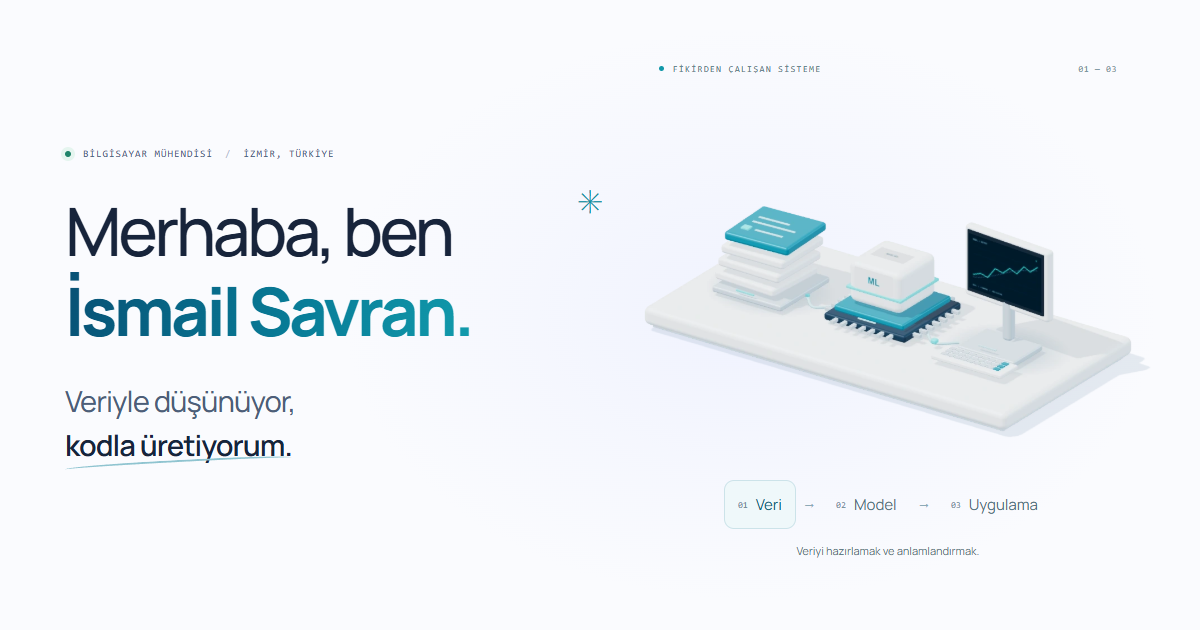
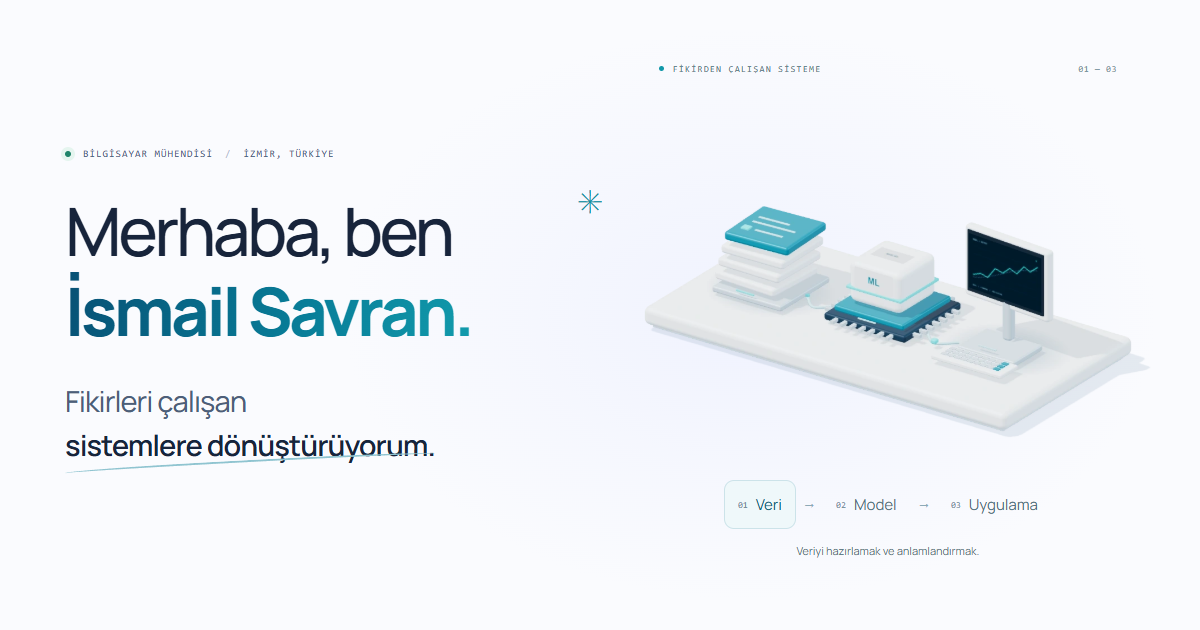
Refresh introduction copy and link directly to the verified publication

Changed region(s): [[0.0308, 0.6937, 0.37, 0.754], [0.0308, 0.6032, 0.2467, 0.6635]]

diff --git a/index.html b/index.html
@@ -8,7 +8,7 @@
 <meta name="description" content="İsmail Savran’ın kişisel portföyü. Makine öğrenmesi, doğal dil işleme, zaman serisi tahmini ve kurumsal web uygulamaları üzerine projeler.">
 <link rel="canonical" href="https://ismailsavran10.github.io/">
 <meta property="og:title" content="İsmail Savran — Bilgisayar Mühendisi">
-<meta property="og:description" content="Veriyle düşünüyor, kodla üretiyorum. İsmail Savran’ın makine öğrenmesi, yazılım geliştirme ve araştırma çalışmaları.">
+<meta property="og:description" content="Fikirleri çalışan sistemlere dönüştürüyorum. İsmail Savran’ın makine öğrenmesi, yazılım geliştirme ve araştırma çalışmaları.">
 <meta property="og:type" content="website">
 <meta property="og:locale" content="tr_TR">
 <meta property="og:url" content="https://ismailsavran10.github.io/">
@@ -17,12 +17,12 @@
 <link rel="icon" type="image/svg+xml" href="favicon.svg">
 <link rel="preload" href="fonts/manrope-latin-variable.woff2" as="font" type="font/woff2" crossorigin>
 <link rel="preload" href="fonts/manrope-latin-ext-variable.woff2" as="font" type="font/woff2" crossorigin>
-<link rel="stylesheet" href="styles.css?v=20260908-2">
-<link rel="stylesheet" href="refinements.css?v=20260908-2">
+<link rel="stylesheet" href="styles.css?v=20260908-3">
+<link rel="stylesheet" href="refinements.css?v=20260908-3">
 <script type="application/ld+json">{"@context":"https://schema.org","@type":"Person","name":"İsmail Savran","jobTitle":"Bilgisayar Mühendisi","url":"https://ismailsavran10.github.io/","sameAs":["https://github.com/ismailsavran10","https://www.linkedin.com/in/ismail-savran-00ba0a326"],"alumniOf":{"@type":"CollegeOrUniversity","name":"Afyon Kocatepe Üniversitesi"},"knowsAbout":["Machine Learning","Natural Language Processing","Time Series Forecasting","Software Development"]}</script>
-<script src="app.js?v=20260908-2" defer></script>
-<script src="motion.js?v=20260908-2" defer></script>
-<script src="workbench-loader.js?v=20260908-2" defer></script>
+<script src="app.js?v=20260908-3" defer></script>
+<script src="motion.js?v=20260908-3" defer></script>
+<script src="workbench-loader.js?v=20260908-3" defer></script>
 </head>
 <body>
 <div class="reading-progress" aria-hidden="true"></div>
@@ -43,10 +43,10 @@
   <div class="hero-copy">
     <div class="eyebrow" data-reveal><span class="status-dot"></span> BİLGİSAYAR MÜHENDİSİ <span class="eyebrow-divider">/</span> İZMİR, TÜRKİYE</div>
     <h1 id="hero-title" data-reveal>Merhaba, ben<br><span class="name-gradient">İsmail Savran.</span><span class="hero-spark" aria-hidden="true">✳</span></h1>
-    <h2 data-reveal>Veriyle düşünüyor,<br><em>kodla üretiyorum.</em></h2>
+    <h2 data-reveal>Fikirleri çalışan<br><em>sistemlere dönüştürüyorum.</em></h2>
     <p data-reveal>Tahmin modelleri, dil işleme ve web uygulamaları geliştiriyorum. Veriyi hazırlamaktan modeli bir arayüzle buluşturmaya kadar, çözümün her adımıyla ilgileniyorum.</p>
     <div class="hero-actions" data-reveal><a class="button primary" href="#projeler">Projelerimi incele <span aria-hidden="true">↗</span></a><a class="button secondary" href="ismail-savran-cv.pdf" download>CV’mi indir <span aria-hidden="true">↓</span></a></div>
-    <div class="social-links"><a href="https://github.com/ismailsavran10" target="_blank" rel="noopener noreferrer"><svg viewBox="0 0 24 24" aria-hidden="true"><path fill="currentColor" d="M12 2a10 10 0 0 0-3.16 19.49c.5.09.68-.22.68-.48v-1.86c-2.78.61-3.37-1.18-3.37-1.18-.45-1.16-1.11-1.47-1.11-1.47-.91-.62.07-.61.07-.61 1 .07 1.53 1.03 1.53 1.03.89 1.53 2.34 1.09 2.91.83.09-.65.35-1.09.63-1.34-2.22-.25-4.56-1.11-4.56-4.94 0-1.09.39-1.99 1.03-2.69-.1-.25-.45-1.27.1-2.65 0 0 .84-.27 2.75 1.03A9.57 9.57 0 0 1 12 6.82c.85 0 1.71.11 2.51.34 1.91-1.3 2.75-1.03 2.75-1.03.55 1.38.2 2.4.1 2.65.64.7 1.03 1.6 1.03 2.69 0 3.84-2.34 4.68-4.57 4.93.36.31.68.92.68 1.85v2.76c0 .26.18.58.69.48A10 10 0 0 0 12 2Z"/></svg>GitHub <span aria-hidden="true">↗</span></a><a href="https://www.linkedin.com/in/ismail-savran-00ba0a326" target="_blank" rel="noopener noreferrer"><svg viewBox="0 0 24 24" aria-hidden="true"><path fill="currentColor" d="M5.4 7.6H2V22h3.4V7.6ZM3.7 2a2 2 0 1 0 0 4 2 2 0 0 0 0-4ZM22 13.8c0-4.3-2.3-6.3-5.3-6.3a4.5 4.5 0 0 0-4 2.2V7.6H9.3V22h3.4v-8c0-2.1.4-4.1 3-4.1 2.6 0 2.6 2.4 2.6 4.2V22H22v-8.2Z"/></svg>LinkedIn <span aria-hidden="true">↗</span></a></div>
+    <div class="social-links"><a href="https://github.com/ismailsavran10" target="_blank" rel="noopener noreferrer"><svg viewBox="0 0 24 24" aria-hidden="true"><path fill="currentColor" d="M12 2a10 10 0 0 0-3.16 19.49c.5.09.68-.22.68-.48v-1.86c-2.78.61-3.37-1.18-3.37-1.18-.45-1.16-1.11-1.47-1.11-1.47-.91-.62.07-.61.07-.61 1 .07 1.53 1.03 1.53 1.03.89 1.53 2.34 1.09 2.91.83.09-.65.35-1.09.63-1.34-2.22-.25-4.56-1.11-4.56-4.94 0-1.09.39-1.99 1.03-2.69-.1-.25-.45-1.27.1-2.65 0 0 .84-.27 2.75 1.03A9.57 9.57 0 0 1 12 6.82c.85 0 1.71.11 2.51.34 1.91-1.3 2.75-1.03 2.75-1.03.55 1.38.2 2.4.1 2.65.64.7 1.03 1.6 1.03 2.69 0 3.84-2.34 4.68-4.57 4.93.36.31.68.92.68 1.85v2.76c0 .26.18.58.69.48A10 10 0 0 0 12 2Z"/></svg>GitHub profilim <span aria-hidden="true">↗</span></a><a href="https://www.linkedin.com/in/ismail-savran-00ba0a326" target="_blank" rel="noopener noreferrer"><svg viewBox="0 0 24 24" aria-hidden="true"><path fill="currentColor" d="M5.4 7.6H2V22h3.4V7.6ZM3.7 2a2 2 0 1 0 0 4 2 2 0 0 0 0-4ZM22 13.8c0-4.3-2.3-6.3-5.3-6.3a4.5 4.5 0 0 0-4 2.2V7.6H9.3V22h3.4v-8c0-2.1.4-4.1 3-4.1 2.6 0 2.6 2.4 2.6 4.2V22H22v-8.2Z"/></svg>LinkedIn <span aria-hidden="true">↗</span></a></div>
   </div>
   <div class="hero-visual workbench" aria-label="Veriden uygulamaya çalışma sürecim">
     <div class="workbench-heading"><span class="workbench-dot" aria-hidden="true"></span> FİKİRDEN ÇALIŞAN SİSTEME <span class="workbench-edition" aria-hidden="true">01 — 03</span></div>
@@ -70,11 +70,11 @@
 <section class="section container" id="hakkimda" aria-labelledby="about-title">
   <div class="section-label" data-reveal><span>01 / HAKKIMDA</span><span>YAKLAŞIMIM & ODAK ALANLARIM</span></div>
   <div class="about-grid">
-    <h2 class="section-title" data-reveal id="about-title">Veriyi anlamak.<br><em>İşe yarayan yazılım üretmek.</em></h2>
+    <h2 class="section-title" data-reveal id="about-title">Araştırma merakı.<br><em>Mühendislik yaklaşımı.</em></h2>
     <div class="about-copy" data-reveal>
       <p>Ben İsmail Savran. Afyon Kocatepe Üniversitesi Bilgisayar Mühendisliği mezunuyum. Makine öğrenmesi, doğal dil işleme ve web geliştirmeyi bir araya getiren projeler üzerinde çalışıyorum. Bir problemi verisiyle anlamak, uygun modeli kurmak ve sonucu kullanılabilir bir uygulamaya dönüştürmek, en çok ilgilendiğim süreç.</p>
       <p>Uçuş gecikme tahmini, açıklanabilir phishing tespiti ve Türkçe metinlerde duygu analizi üzerine çalışmalar geliştirdim. Bu projelerde veri hazırlamadan model eğitimine ve arayüze kadar farklı sorumluluklar üstlendim. Modelleri karşılaştırırken tahminlerin doğruluğuyla birlikte, kararların nasıl açıklanabildiğine ve sonuçların nasıl kullanılacağına da odaklanıyorum.</p>
-      <p>JANTSA’daki stajlarımda kurumsal portallar, kimlik doğrulama ve veri tabanı entegrasyonları üzerinde çalıştım. Araştırma projelerinde edindiğim analitik yaklaşımı, iş süreçlerinde kullanılacak yazılımlar geliştirirken de uyguluyorum. Hedefim; anlaşılır, geliştirilebilir ve gerçek bir ihtiyaca karşılık veren sistemler üretmek.</p>
+      <p>Benim için iyi bir çözüm, nasıl çalıştığı anlaşılabilen ve üzerine yeni özellikler eklenebilen bir sistemdir. Bu yüzden araştırma ile uygulamayı birlikte ele alıyor; öğrendiklerimi açık kaynak projelerimde paylaşıyorum.</p>
       <a class="text-link" href="#deneyim">Deneyimime göz at <span aria-hidden="true">↗</span></a>
     </div>
   </div>
@@ -155,7 +155,7 @@
           <h3 lang="en">Forecasting Flight Delays From Operational and Weather Data: A Regression-Based Machine Learning Application</h3>
           <p>Operasyonel ve meteorolojik verilerle uçuş gecikmelerini tahmin eden regresyon tabanlı makine öğrenmesi çalışmam. IEEE destekli ISMSIT 2025 konferansında sundum.</p>
           <div class="paper-facts"><span><b>Etkinlik</b> ISMSIT 2025</span><span><b>Yer & tarih</b> Ankara · 14–16 Kasım 2025</span></div>
-          <a class="paper-link" href="https://ieeexplore.ieee.org/xpl/conhome/11267792/proceeding?sortType=vol-only-seq&isnumber=11267796&searchWithin=%C4%B0smail%20SAVRAN" target="_blank" rel="noopener noreferrer">IEEE Xplore’da incele <span aria-hidden="true">↗</span></a>
+          <a class="paper-link" href="https://ieeexplore.ieee.org/document/11267898/" target="_blank" rel="noopener noreferrer">IEEE Xplore’da incele <span aria-hidden="true">↗</span></a>
         </div>
       </article>
       <article class="paper-card paper-comparison" data-reveal><div class="paper-content">
